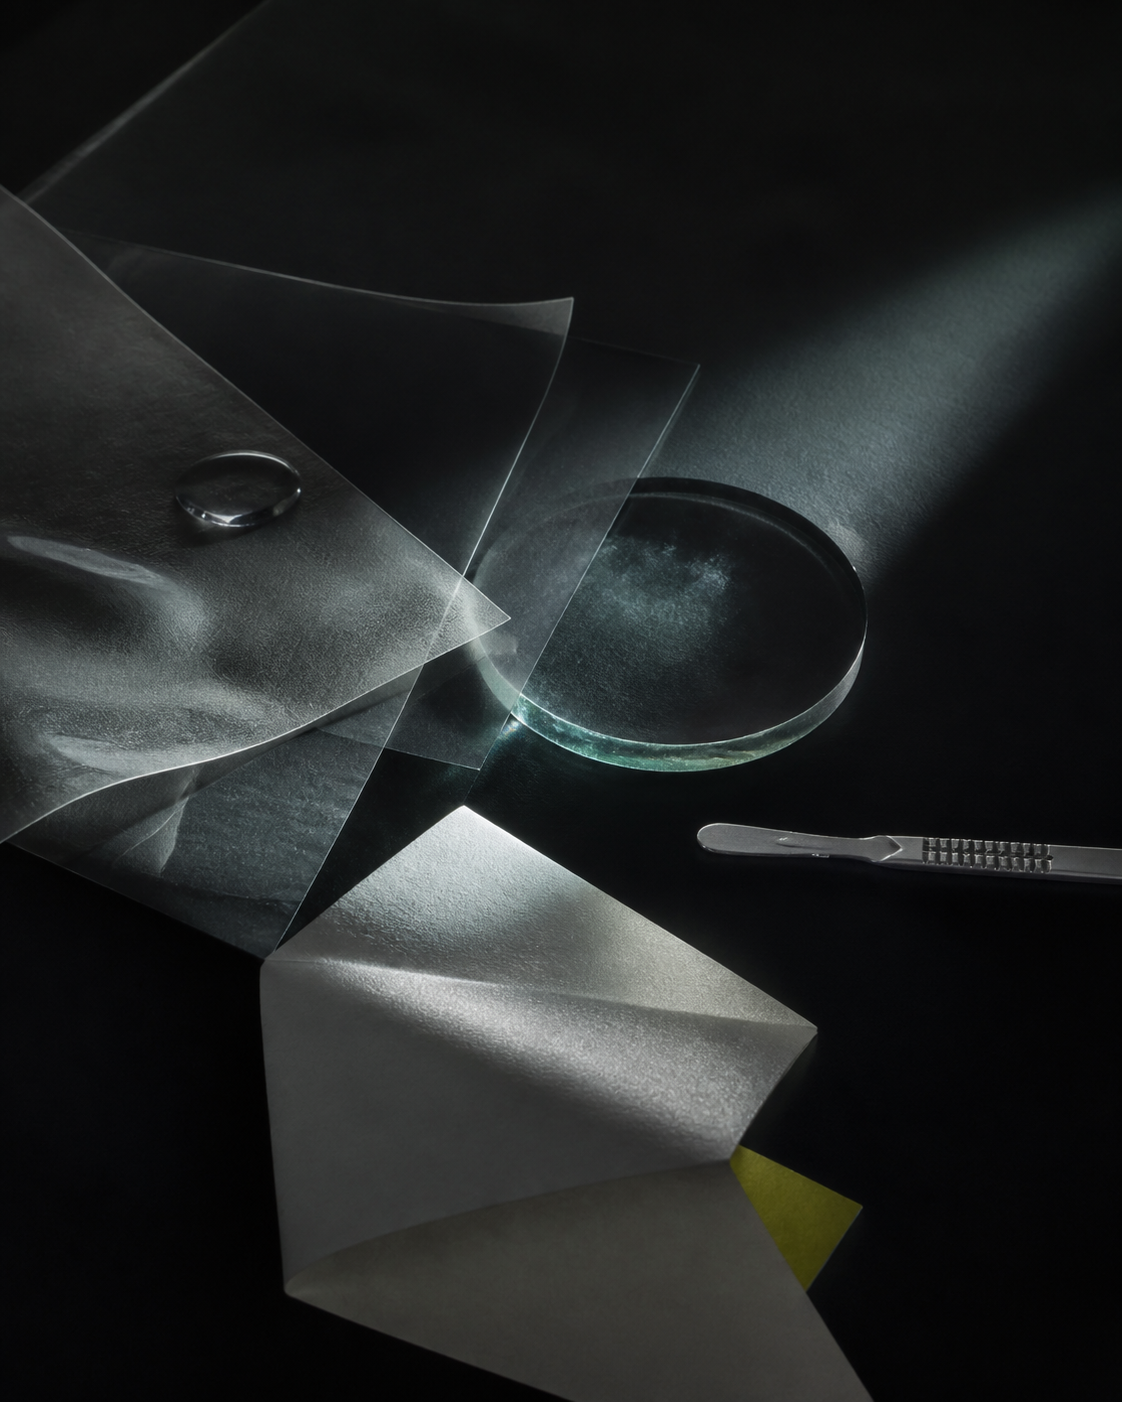
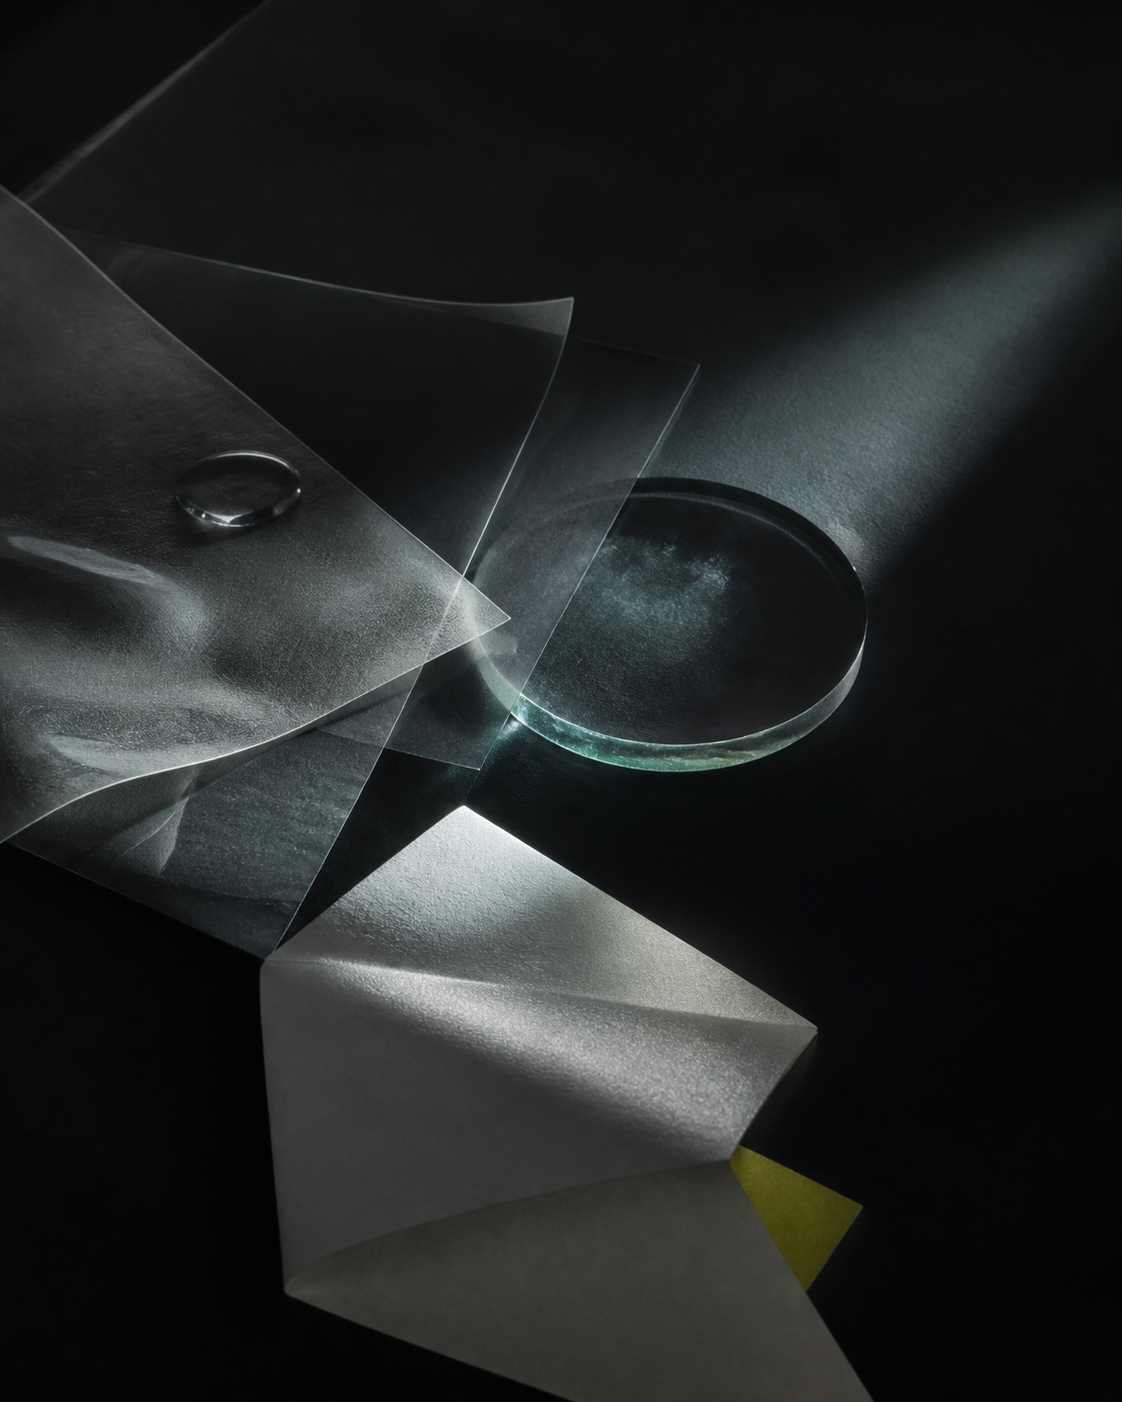
chore: refresh studio iteration visual

Changed region(s): [[0.6239, 0.5827, 1.0, 0.6441]]

diff --git a/prototype/index.html b/prototype/index.html
@@ -194,7 +194,7 @@
             <img src="./assets/about-threshold.png" alt="透明材質、光束與金屬構成的抽象工作室情境" width="1122" height="1402" loading="lazy" decoding="async" />
           </figure>
           <figure class="studio-image" data-studio-image="1">
-            <img src="./assets/about-iteration.png" alt="光學玻璃、透明薄膜與紙材構成的實驗情境" width="1122" height="1402" loading="lazy" decoding="async" />
+            <img src="./assets/about-iteration.png?v=20260825-2" alt="光學玻璃、透明薄膜與紙材構成的實驗情境" width="1122" height="1402" loading="lazy" decoding="async" />
           </figure>
           <figure class="studio-image" data-studio-image="2">
             <img src="./assets/about-motion.png" alt="薄紗、反射金屬與移動光影構成的動態情境" width="1122" height="1402" loading="lazy" decoding="async" />
